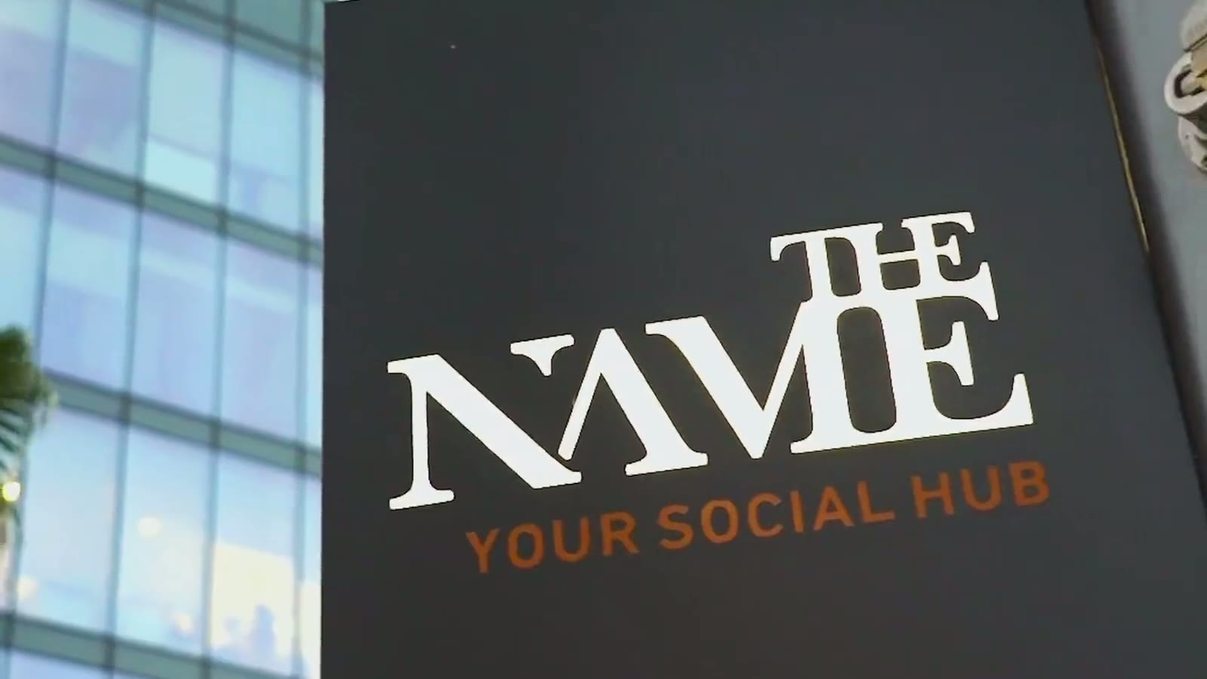
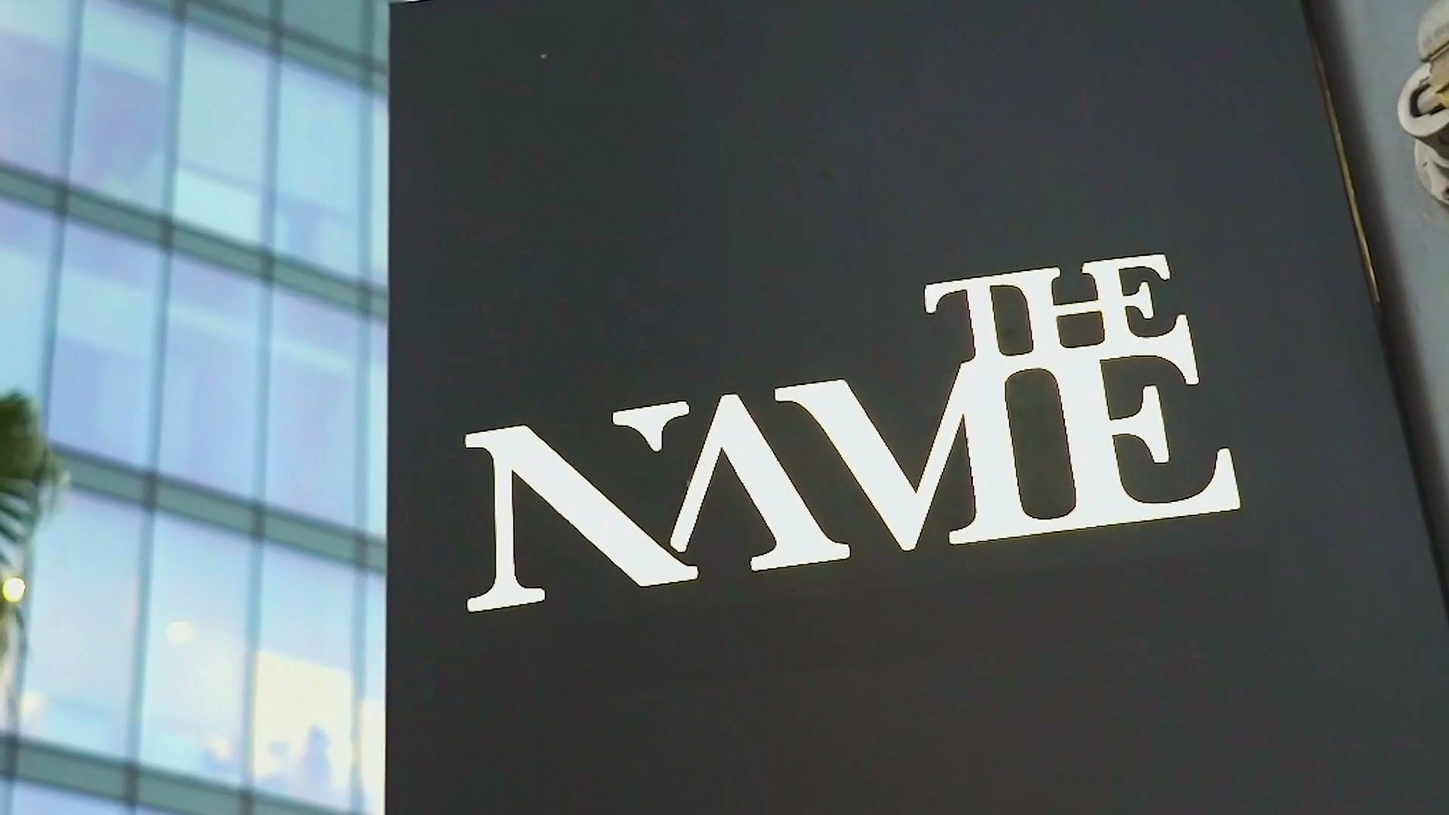
hero background image with text white color

Changed region(s): [[0.375, 0.6533, 0.875, 0.84]]

diff --git a/src/pages/Home/Home.css b/src/pages/Home/Home.css
@@ -49,15 +49,11 @@
   .home-hero .home-hero-video-phone { display: block; }
 }
 
-/* The type block runs to the hero's bottom edge and carries the white wash
-   itself, IN FRONT of the picture (z-index; the media is layer 0). The wash
-   fades in over --hero-ramp just above the title and is near-solid behind
-   the text, so the words sit on top of the picture and nothing in it shows
-   through them (the stand-in photo's own big white "THE NAME" lettering
-   crossed the title and read as if the text were behind the image). It ends
-   in the page background, so the picture fades into the page below with no
-   edge. Above the ramp the picture is untouched. Its own gradient, not the
-   shared .wash-to-bg — that one stays thin for most of its height. */
+/* The type block runs to the hero's bottom edge, IN FRONT of the picture
+   (z-index; the media is layer 0). NO white wash: the picture stays as it
+   is, and the type turns white over a soft DARK shade that rises from the
+   hero's foot (--hero-ramp above the title, deepest behind the text) — the
+   way the words stay readable on any photo without washing it out. */
 .home-hero-content {
   --hero-ramp: clamp(30px, 18vh, 180px);
   position: absolute;
@@ -65,23 +61,31 @@
   left: 0;
   right: 0;
   bottom: 0;
-  /* The wash starts right above the title (the text is anchored to the
+  /* The shade starts right above the title (the text is anchored to the
      bottom, so this only sets where the gradient begins). */
   padding-top: var(--hero-ramp);
   padding-bottom: clamp(40px, 6vh, 80px);
   background: linear-gradient(to bottom,
       transparent 0,
-      color-mix(in srgb, var(--color-bg) 40%, transparent) calc(var(--hero-ramp) * 0.45),
-      color-mix(in srgb, var(--color-bg) 88%, transparent) calc(var(--hero-ramp) * 0.75),
-      var(--color-bg) var(--hero-ramp),
-      var(--color-bg) 100%);
+      color-mix(in srgb, var(--color-black) 30%, transparent) var(--hero-ramp),
+      color-mix(in srgb, var(--color-black) 60%, transparent) 100%);
+  color: var(--color-white);
+  text-shadow: 0 1px 12px color-mix(in srgb, var(--color-black) 35%, transparent);
   pointer-events: none;
 }
+/* ...but not on the gold name: its text is transparent (the gradient is
+   clipped to it, .gold-leaf), so a shadow would show through and dull it. */
+.home-hero-content .gold-leaf { text-shadow: none; }
+
 
 
 /* Type is the shared .display-title (theme.css) — but at 4vw here, not its
    6vw (the About tagline keeps 6vw), and the width cap. */
-.home-hero-title {
+/* .home-hero qualifies it: theme.css's .display-title is equally specific
+   and lands later in the bundle, so a single class loses the tie. */
+.home-hero .home-hero-title {
+  /* white on the hero's dark shade (.display-title is charcoal elsewhere) */
+  color: var(--color-white);
   font-size: clamp(36px, 4vw, 88px);
   max-width: 14ch;
 }
@@ -168,7 +172,7 @@
    hero and the video stays visible above it. */
 @media (max-width: 700px),
 (max-height: 820px) {
-  .home-hero-title {
+  .home-hero .home-hero-title {
     font-size: clamp(32px, 4vw, 56px);
   }
 

diff --git a/src/data/media.js b/src/data/media.js
@@ -83,9 +83,15 @@ export const media = {
   // On phones (≤700px) the hero plays the Agency film instead (agencyFilm).
   heroPhone: agencyFilm,
   // The Home hero's PICTURE, which replaced the two films above (both kept,
-  // PARKED, for when a film comes back). The file is still to come — until
-  // it lands at public/media/photos/home/hero.jpg, ImagePlaceholder shows
-  // its dashed slot. Fills the hero at every width (object-fit: cover).
+  // PARKED, for when a film comes back). Fills the hero at every width
+  // (object-fit: cover). A STAND-IN until a real photo replaces
+  // public/media/photos/home/hero.jpg: the "THE NAME" storefront sign —
+  // its "YOUR SOCIAL HUB" line painted out (the plain sign panel 130px
+  // below cloned over it through a slanted, feathered ffmpeg mask) — a
+  // 1920x1080 frame (0:35.97, the sharpest of the shot by
+  // ffmpeg blurdetect, + a light unsharp) from the ORIGINAL showreel, "R
+  // Investment Video Loop (2m04 seamless).mp4" (5.5 Mbps) — not from
+  // videos/hero.mp4, our 1600x900 1.1 Mbps cut, which is far softer.
   heroImage: `${BASE}/photos/home/hero.jpg`,
   // The full-width picture behind Home's virtual-store band (under the
   // Brands row). A STAND-IN until a real wide shot of the store (~1920×800)

diff --git a/STRUCTURE.md b/STRUCTURE.md
@@ -1429,7 +1429,9 @@ Two folders, split by whether the site SERVES the file:
 public/media/
   README.md       — what each folder is for (served, harmless)
   STAND-INS (until the real photography comes; each marked in data/media.js):
-                    photos/home/hero.jpg, photos/fnb/* and
+                    photos/home/hero.jpg is a 1920x1080 frame of the ORIGINAL
+                    showreel (sharper than our cut), the sign's "YOUR SOCIAL
+                    HUB" line cloned out with the plain panel below it; photos/fnb/* and
                     photos/agency/ooh-commercity.jpg are 1600x900 stills
                     from videos/hero.mp4 (fnb/concept-store.jpg has its
                     burned-in caption painted out with ffmpeg delogo — a
@@ -1575,7 +1577,7 @@ placeholder instead, so partially-supplied media degrades cleanly.
 
 | Route | Folder | Notes |
 |---|---|---|
-| `/` | `pages/Home/` | The five-pillar brief ("More than just a name."). **Hero** — ONE picture, full-bleed at every width: `media.heroImage` (public/media/photos/home/hero.jpg, STILL TO COME — ImagePlaceholder shows its dashed slot until it lands; `.home-hero-image` in Home.css, eager-loaded). The two films it replaced are PARKED (commented out in Home.jsx, their `.home-hero-video*` rules kept in Home.css): the looping showreel `media.hero` and on phones (≤700px) `media.heroPhone`, the portrait Brand Communication film (`agencyFilm` in media.js); the type block `.home-hero-content` runs to the hero's bottom edge, IN FRONT of the picture (z-index 1 over `.home-hero-media`'s 0), and carries its OWN white wash (Home.css; no longer the shared `.wash-to-bg`): it fades in over `--hero-ramp` (= its padding-top, clamp(30px, 18vh, 180px)) just above the title and is SOLID `--color-bg` from the title down, so nothing in the picture shows through the words (the stand-in photo's big white "THE NAME" lettering used to cross the title) and the picture fades into the page below (no separate scrim element), with LIVE TYPE now: `<h1>` (uppercase via CSS) carrying `home.hero.title` in a `.sr-only` span for screen readers/crawlers, and DRAWING an `aria-hidden` version: `home.hero.titleLead` then `RotatingName` (Home.jsx) — its own line, where each of `home.hero.names` (English names in en, Arabic in ar; first entry "a name." / "اسم." is the server render and the reduced-motion still) drops in from above every `NAME_HOLD_MS` (names[0] holds for `SLOGAN_HOLD_MS`) while the old one falls out (`home-name-drop` / `home-name-leave` in Home.css), the paragraph `home.hero.body`, and ONE yellow `.btn-primary`, "Explore what we do" (`home.hero.cta`, no arrow), a router Link to `whatWeDoLink` (/#what-we-do, the section below). (The "Virtual Store" button moved to its own band, below.) The title type is the shared `.display-title` class in theme.css (also used by the About tagline card); `.home-hero-title` caps its width. `.display-title` is charcoal (`--color-ink`) and its name is the shared `.gold-leaf` class (theme.css: text filled with `--gradient-panel` via background-clip: text) — each `.home-hero-name-word` carries it. `.sr-only` (visually hidden, still read) is a shared utility in theme.css, added for this title — reuse it rather than writing another. The old tagline artwork component was deleted. **What we do** — intro (`home.whatWeDo`), then one row per entry in `pillars` (`data.js`: corporateGifts, brands, agency, events, fnb). Copy is `home.pillars[id]` — `title`, `lead` (first paragraph, regular weight), optional `body` (empty string = not rendered), `tags` (rendered as small uppercase outline chips — wrapping on desktop/tablet, one swipeable line on the phone stage), `ctas[key]` labelling each of the row's `links`. Rows follow `pillars`' order (no order fields in data; `num` is unused now). Every row has ONE button (Explore → its page; the Brands row's Shop button was removed). F&B → `/fnb-and-concept-store` (its own page; the old /cafe page stays PARKED). The rows are `ServiceRows` from `components/ServicePage` (`titleAs="h3"`) — the SAME structure as every "What we do" page: desktop/tablet the zig-zag `PillarRows` (number, chips, buttons, each film in a MediaGallery filling the column, no ring — like the Events page), phones the card stage `ServiceList`. Home maps `pillars` to its `services`: title/lead/body, `tags` (chips), `actions` (the CTA links, `actionsOf(p)`); media via `servicePhotos`: the row's film from `media.serviceVideos[id]` or else its photo `media.services[id]` (dashed placeholder until it exists). Films: `corporateGifts` the Vertex reel, `agency` the Outdoor Media film (16:9, cropped to the frame), `events` the Events iPad reel — all cut to 4:5. **Virtual store band** (`.home-virtual-store`, Home.css; copy `home.virtualStore` { heading, body, cta, shopCta }) — UNDER THE BRANDS ROW: Home renders its rows as TWO `ServiceRows` (the first `BAND_AFTER` = 2 — Corporate Gifts, Brands — then the band, then the rest with `start={2}`, so they number 03-05 and the zig-zag carries on; on phones that is two card stages): a FULL-WIDTH section (no .container on it) whose background is the picture `media.virtualStore` (public/media/photos/home/virtual-store.jpg, STILL TO COME) set as the CSS variable --virtual-store-bg, cover, under a 55% black wash, over the footer's dark gradient (what shows until the file lands — a CSS background draws nothing for a missing file); centred white heading, a line, and TWO WHITE `.btn-light` buttons (`.home-virtual-store-actions`): "Virtual Store" to `virtualStoreUrl` (data/site.js: the Matterport 3D walkthrough, new tab) and "Shop the Brands" to `shopLink` (the Odoo store, same tab like every Shop link). **Final CTA** (`home.finalCta`) — centred, "Start a conversation →" links to the same `/our-story#contact`. Every "→" is the `Arrow` span in Home.jsx, mirrored under RTL. **PARKED on Home** (components, other CSS and i18n kept): LogoMarquee, Bubbles, `CustomizeSection` (`/customize` → `/#customize` now just lands at the top), the "how it works" method picker + ProcessSteps (its `home.howItWorks` copy and `customMethods` are still read by the chatbot, About, Shop and catalogue.js — do not delete), and `ContactSection`. The old how-it-works / service-point rules were removed from Home.css; see commit d6f9561. The old `home.services` / hero `ctaShop`/`ctaTour` keys were replaced. |
+| `/` | `pages/Home/` | The five-pillar brief ("More than just a name."). **Hero** — ONE picture, full-bleed at every width: `media.heroImage` (public/media/photos/home/hero.jpg, STILL TO COME — ImagePlaceholder shows its dashed slot until it lands; `.home-hero-image` in Home.css, eager-loaded). The two films it replaced are PARKED (commented out in Home.jsx, their `.home-hero-video*` rules kept in Home.css): the looping showreel `media.hero` and on phones (≤700px) `media.heroPhone`, the portrait Brand Communication film (`agencyFilm` in media.js); the type block `.home-hero-content` runs to the hero's bottom edge, IN FRONT of the picture (z-index 1 over `.home-hero-media`'s 0), with NO white wash: the picture shows as it is, and the type is WHITE (`.home-hero .home-hero-title` — qualified, since theme.css's charcoal `.display-title` would win a single-class tie; the gold name keeps its .gold-leaf, without the text-shadow the rest gets) over a soft DARK shade (Home.css) that rises over `--hero-ramp` (= its padding-top, clamp(30px, 18vh, 180px)) from transparent to 30% black and deepens to 60% at the hero's foot, with LIVE TYPE now: `<h1>` (uppercase via CSS) carrying `home.hero.title` in a `.sr-only` span for screen readers/crawlers, and DRAWING an `aria-hidden` version: `home.hero.titleLead` then `RotatingName` (Home.jsx) — its own line, where each of `home.hero.names` (English names in en, Arabic in ar; first entry "a name." / "اسم." is the server render and the reduced-motion still) drops in from above every `NAME_HOLD_MS` (names[0] holds for `SLOGAN_HOLD_MS`) while the old one falls out (`home-name-drop` / `home-name-leave` in Home.css), the paragraph `home.hero.body`, and ONE yellow `.btn-primary`, "Explore what we do" (`home.hero.cta`, no arrow), a router Link to `whatWeDoLink` (/#what-we-do, the section below). (The "Virtual Store" button moved to its own band, below.) The title type is the shared `.display-title` class in theme.css (also used by the About tagline card); `.home-hero-title` caps its width. `.display-title` is charcoal (`--color-ink`) and its name is the shared `.gold-leaf` class (theme.css: text filled with `--gradient-panel` via background-clip: text) — each `.home-hero-name-word` carries it. `.sr-only` (visually hidden, still read) is a shared utility in theme.css, added for this title — reuse it rather than writing another. The old tagline artwork component was deleted. **What we do** — intro (`home.whatWeDo`), then one row per entry in `pillars` (`data.js`: corporateGifts, brands, agency, events, fnb). Copy is `home.pillars[id]` — `title`, `lead` (first paragraph, regular weight), optional `body` (empty string = not rendered), `tags` (rendered as small uppercase outline chips — wrapping on desktop/tablet, one swipeable line on the phone stage), `ctas[key]` labelling each of the row's `links`. Rows follow `pillars`' order (no order fields in data; `num` is unused now). Every row has ONE button (Explore → its page; the Brands row's Shop button was removed). F&B → `/fnb-and-concept-store` (its own page; the old /cafe page stays PARKED). The rows are `ServiceRows` from `components/ServicePage` (`titleAs="h3"`) — the SAME structure as every "What we do" page: desktop/tablet the zig-zag `PillarRows` (number, chips, buttons, each film in a MediaGallery filling the column, no ring — like the Events page), phones the card stage `ServiceList`. Home maps `pillars` to its `services`: title/lead/body, `tags` (chips), `actions` (the CTA links, `actionsOf(p)`); media via `servicePhotos`: the row's film from `media.serviceVideos[id]` or else its photo `media.services[id]` (dashed placeholder until it exists). Films: `corporateGifts` the Vertex reel, `agency` the Outdoor Media film (16:9, cropped to the frame), `events` the Events iPad reel — all cut to 4:5. **Virtual store band** (`.home-virtual-store`, Home.css; copy `home.virtualStore` { heading, body, cta, shopCta }) — UNDER THE BRANDS ROW: Home renders its rows as TWO `ServiceRows` (the first `BAND_AFTER` = 2 — Corporate Gifts, Brands — then the band, then the rest with `start={2}`, so they number 03-05 and the zig-zag carries on; on phones that is two card stages): a FULL-WIDTH section (no .container on it) whose background is the picture `media.virtualStore` (public/media/photos/home/virtual-store.jpg, STILL TO COME) set as the CSS variable --virtual-store-bg, cover, under a 55% black wash, over the footer's dark gradient (what shows until the file lands — a CSS background draws nothing for a missing file); centred white heading, a line, and TWO WHITE `.btn-light` buttons (`.home-virtual-store-actions`): "Virtual Store" to `virtualStoreUrl` (data/site.js: the Matterport 3D walkthrough, new tab) and "Shop the Brands" to `shopLink` (the Odoo store, same tab like every Shop link). **Final CTA** (`home.finalCta`) — centred, "Start a conversation →" links to the same `/our-story#contact`. Every "→" is the `Arrow` span in Home.jsx, mirrored under RTL. **PARKED on Home** (components, other CSS and i18n kept): LogoMarquee, Bubbles, `CustomizeSection` (`/customize` → `/#customize` now just lands at the top), the "how it works" method picker + ProcessSteps (its `home.howItWorks` copy and `customMethods` are still read by the chatbot, About, Shop and catalogue.js — do not delete), and `ContactSection`. The old how-it-works / service-point rules were removed from Home.css; see commit d6f9561. The old `home.services` / hero `ctaShop`/`ctaTour` keys were replaced. |
 | `/cafe` | `pages/Cafe/` | **PARKED — no route, no nav entry** (see App.jsx above); the folder and its copy are kept so it can be switched back on. Title block, then the delivery-partner `LogoMarquee` — **commented out** for now (ids/URLs in this page's `data.js`, names under i18n cafe.partners) — then the menu (List/Cards toggle; cards are `OverlayCard` with tag + price chips and an icon-only WhatsApp action; autoplaying carousels, 3 sections). Food `Bubbles` (plus the N mark) at 3× scale fill the gutters on wide screens (no narrow-screen bands). Plus the **events** section at its foot — nights held in our own room, rendered by `PackagesPanel`. Was `pages/Menu/`. |
 | `/store` | `pages/Shop/` | **PARKED**: the import and route are commented out in App.jsx and `routes.shop` is out of `navLinks` (so it is not prerendered). Every Shop button and link (navbar, footer, Home hero and Brands row, the Events page, About, the chatbot, the parked Cafe) points at `shopLink` in data/site.js, the Odoo store (https://thenamemea.odoo.llc/shop), each a plain `<a href={shopLink}>` (in data lists, an `href` entry instead of a `to`: `chatTopics`, `aboutServices`), so a click goes STRAIGHT there. (They used to link to `/store` and pass through `ToOdooShop`, which showed a blank page for a moment before redirecting.) `/store` and `/shop` still render `ToOdooShop` (App.jsx), which `location.replace`s to the store, only so old bookmarks keep working. Restore the page by uncommenting it in App.jsx, setting `shopLink` back to `routes.shop` and putting `routes.shop` back in `navLinks`. What follows describes the parked page. Labelled "Store" in the nav (was `/shop`, which redirects here). "Make It Personal" — the real catalogue: **192 products from `data/storeProducts.js`**, generated from the Odoo export (see that file). Ten category filters from `storeCategories`, each showing the same products as the matching category page on store.thename.ae (counts verified equal: Bags & Travel 24, Desk & Stationery 19, Drinkware 35, Games 5, Home Accessories 61, Kids 60, Photo & Frames 8, Personalized Gift Sets 9, Technology 36). Rendered as WRAPPING PILLS (`.seg.shop-filters` in Shop.css) rather than the shared `.seg` capsule: ten options need ~1286px and the capsule had 1096px, so its `overflow: hidden` silently cut the last one off mid-word. The class exists so the List/Cards `ViewToggle` beside them, also a `.seg`, keeps the joined capsule. Note the selector is `.seg.shop-filters` — a single class loses to theme.css's `.seg`, which is equally specific and later in the bundle (All Products, Bags & Travel, Desk & Stationery, Drinkware, Games, Home Accessories, Kids, Photo & Frames, Personalized Gift Sets, Technology) — but the export carries no per-product category, so only "All Products" has anything in it and the rest show `shop.emptyCategory`. The catalogue is a SHOWCASE, not a listing, and it has TWO modes. A NAMED shelf renders its first `FEATURED_COUNT` products and nothing else, in `.product-grid-featured` — fixed columns across the full container. `FEATURED_COUNT` is not a number of its own: it IS `CARDS_IN_VIEW` (4, from ProductCard), so the row is full by construction and changing the layout can never leave a half-empty shelf behind. "ALL PRODUCTS" is the exception and is NOT cut to three: it is the whole catalogue on the shared `Carousel`, the same four cards in view and the rest a swipe away, because a sample of an unfiltered shelf is meaningless and a track of exactly three cards is just a row with dead arrows on it. Its cards carry `carousel-card`, whose flex-basis in theme.css is arithmetic off `--carousel-per-view` (n cards and n-1 gaps). That variable comes from the Carousel's `perView` prop and DEFAULTS TO 3, so asking for 4 here leaves the Kids track — and the parked Cafe one — exactly as they were. The narrow-screen steps override the width directly with `!important` rather than lowering the variable, and have to: it arrives as an inline style, which no stylesheet rule can outrank and reuse the `shop.prevPieces`/`nextPieces` labels that were already there from the page's earlier carousel. A SEARCH resets the filter to 'all', so results always land in the carousel and are never truncated to three. Both modes pass `product-card-showcase` and `SHOWCASE_RATIO` ('1 / 1') to ProductCard: the picture fills its frame edge to edge (`object-fit: cover`, no inset ground) rather than sitting as a stamp on a tint. The frame is SQUARE because the catalogue is mixed: 143 of the store's 187 photographs are 2:3 portrait and 44 are 3:2 landscape (the Message In The Bulb line, mostly). `cover` crops whatever does not fit, so a portrait 3:4 frame — which suits the majority beautifully — takes half the width off each of those 44. A square gives up a third of one axis either way, symmetric, and product photography carries enough white margin to afford it. The ratio must be passed as a PROP; ImagePlaceholder sets it as an inline style and a CSS rule for it loses silently (caught in the browser, not the build). Under either layout sits a `.btn-primary` that opens THAT CATEGORY on store.thename.ae via `categoryUrl(filter)` (pick Drinkware and you land on the store's Drinkware page, not its shop front) — the cards themselves still open one product each, unchanged. For a named shelf the rest of the products are not rendered at all; the button is where they went. Copy is `shop.shopCategory(label)`, which takes the category's own filter label — except on "All Products", which borrows the hero's `shop.openShop` rather than reading "Shop all All Products". The old PAGER is **PARKED** and commented out in Shop.jsx: `PAGE_SIZE` (24), the `visible` state, the `useEffect` that reset it on a filter/search change, and the "Load more" block, each marked PARKED, along with the now-unused `useEffect` import. Its copy (`shop.loadMore`, `shop.showing`) and CSS (`.shop-more-count`) are kept; `.shop-more` is reused as the wrapper for the new category button. Restoring the pager means uncommenting all four and putting `visible` back into the `page` slice. Why it was a window rather than numbered PAGES, if it ever comes back: growing it keeps every card already on screen exactly where it is, while pages replace the grid and throw away the visitor's place. It was not an inner scroll container either — nested scrollbars fight the page scroll, strand the footer and are poor on touch and with a keyboard. And not infinite scroll, which never lets you reach the footer. Note the result count beside the filters still reports the FULL size of the shelf, not the three on screen — that is deliberate, it is what makes the button under the grid worth pressing. Product images are `loading="lazy"` (now the DEFAULT on ImagePlaceholder site-wide; heroes pass loading="eager", since lazy-loading a HERO image would delay the largest paint). A SEARCH field sits under the filters and overrides them: typing resets the category to 'all', because a search is meant to find a product wherever it lives rather than quietly searching inside one shelf and appearing to find nothing. It is NOT debounced — 192 objects in memory filter in well under a millisecond, so a timer would only add lag; what can be slow is re-rendering up to 192 cards per keystroke, and `useDeferredValue` handles that by keeping the input responsive and rendering the list at a lower priority. Query terms are ANDed against the name, so "lexon bag" finds "LEXON - Travel bag NEW AIRLINE". The field and its results are spaced as ONE group: the gap below the field is the same `--space-2` that sits under the field's own label, against the `--space-4` above it that breaks from the controls. It is set on the RESULTS, not as a margin under the field, because the two layouts arrive with different defaults — the grid inherits `.product-grid`'s `--space-6` (overridden in Shop.css, not changed in ProductCard.css, since that grid is shared) and the Carousel's track carries 4px of top padding that is shadow room rather than spacing, subtracted so the card's top edge lands level with the grid's. Measured 8.8px from field to first card in both. List/Cards toggle kept; Cards is a **grid** of `.shop-product` cards copied from the product tile on store.thename.ae so the two read as one shop — the LAYOUT is the store's — product on a tinted ground, centred name, a button across the foot (NO price on the card; it is on the product's own page and in the List view) — but the COLOURS are this site's: `--color-accent-100` under the picture, `--color-accent-700` on the price, and .btn-primary's brand yellow on the button. Equal card heights come from a flex chain that must stay intact: `align-self: stretch` fills the card to its row, `.product-card-body` takes the slack with `flex: 1`, and the button's `margin-top: auto` pins it to the floor — break any link and buttons sit at different heights. That first link used to be `height: 100%`, which is equivalent IN A GRID and so looked right for as long as the grid was the only layout — but in the Carousel `.carousel-track` has auto height, so a percentage height resolves against an indefinite size, falls back to `auto`, and by being set at all SUPPRESSES the stretch it was trying to express. Measured before the fix: 461px for a one-line card beside 486px for a two-line one, in the same row. Do not put it back. The card links to the PRODUCT's own page (`productUrl`), not the shop front. The depth cue is REVERSED from the usual: a card carries its shadow at REST (offset down and to the left) and loses it on hover, so it settles onto the page rather than lifting off it. The LIST view does the opposite — white bordered rows that lift on hover — because a row has no resting shadow to give up. Long names are clamped (two lines on a card, one in a list row) and carry the full string on `title`, the same tooltip pattern the footer's social icons use. Neither view shows a price; it is on the product's own page. A card may carry a BADGE — a ribbon strip OVER the card's top-left corner, from `data/storeBadges.js`. It is an absolute overlay, so it costs the card no height and a badged card keeps the same proportions as a plain one (names stay on one line across a row). It starts 10px OUTSIDE the card's left edge with a darker fold tucked under the overhang, which is what reads as a ribbon passing round the back of the card rather than a sticker on the front. **`.shop-product` therefore sets NO `overflow: hidden`** — clipping would cut exactly the part doing the work — so `.shop-product-media` rounds its own TOP corners instead of relying on the card to clip it. Do not re-add overflow to the card without moving the ribbon inside its bounds. A sparkle sits on the strip's trailing edge, driven by theme.css's shared `sparkle-twinkle` keyframes rather than a redeclared copy; off under prefers-reduced-motion. The fold mirrors under RTL. Two earlier versions are worth not repeating: a 45deg corner ribbon (its length was the chord across the corner, so it silently clipped longer labels) and a full-width band in flow (it pushed the badged card's name below its neighbours'). CORNER RADII are no longer this page's rule — it became the whole site's and now lives with the `--radius-md` token in theme.css; Shop.css points at it rather than restating it. What that means here: the thumbnail inside a list row is `calc(var(--radius-md) - var(--space-3))`, i.e. 2.8px, because it is nested. The page's two gift-set overrides were DELETED: OverlayCard already carries the one radius, and its inset panel now steps down concentrically in OverlayCard.css, where it is true for every page using the component instead of being restated here. Deliberately NOT copied: the wishlist heart and the compare arrows on that tile, which both need a cart this site does not have. The whole card is ONE `<a>` and the button is a `<span>` dressed as one — a button or a second anchor inside a link is invalid, and three links to the same product is noise for a screen reader. The small-tile card uses `object-fit: contain`; the showcase variant both pages now render uses `cover` so the picture fills its frame (see `.product-card-showcase`). Product names are clamped to two lines AND reserved at two: the clamp alone gives equal card heights but leaves the button 25px higher under a one-line name, so `.product-card-name` carries `min-height: calc(1.35em * 2)` — in `em`, so each variant reserves two of its own lines (showcase on `--text-lg`, tiles on `--text-body`). Keep that multiplier and `line-height` in step. 14 of the 192 names actually truncate; all carry the full string on `title`. The gift-sets section ("Boxed, wrapped and ready to give") is **PARKED** — commented out in Shop.jsx along with the four imports/helpers only it used (`OverlayCard`, `giftSets`, `media`, `methodNames`), each marked PARKED. Its copy (`shop.giftSets.*`), its CSS (`.shop-gift-sets*`) and the curated TN-5xx pieces are all kept. **When parking JSX here, no `*/` may appear anywhere inside the wrapper** — including in your own explanatory prose: an end-of-comment marker closes the block early, the section silently goes live again, and the build still PASSES because the stray `*/}` is just JSX text. It fails at runtime instead (`giftSets is not defined`, blank page). Convert any inner comment's markers to plain dashes, as the About page does. Was `pages/VertexPieces/` (an interiors showroom) before the customization pivot. |
 | `/corporate-gifts` | `pages/Business/` | **NOW the shared "What we do" layout (`components/ServicePage`, see the Agency row for how it works):** hero `giftsPage` (kicker "Corporate Gifts", "Gifts that *connect.*"), one section per id in `giftServices` (`data.js`: curated, concepts, merchandise, customisation, packaging, production) titled by `home.pillars.corporateGifts.tags` in that order, copy `giftsPage.services[id]`; media ONE picture per service (`servicePhotos(services, media.servicePhotos.corporateGifts)`, 4:5, changing with the service in view; not supplied yet — dashed placeholders). It replaced the Corporate Gifts film (`media.serviceVideos.corporateGifts`, the Vertex reel — still Home's row film; `giftsPage.filmLabel` now unused). **ar** copy drafted, not native-reviewed. Everything below describes the PARKED page — kept as `ParkedBusiness()` in Business.jsx, not rendered, with its copy (`business.*`), CSS and `brandingOffers`: Labelled "Corporate gifts" in the nav (was `/business`, which redirects here). B2B: branded-goods offer cards ("Made for Business"), account terms ("How We Work With You"), and the **catering** section ("Catering, Wherever Business Takes You."), rendered by `PackagesPanel` as the image + direct-line enquiry only — **no packages table**: `business.catering` has no `title`, `intro`, `colOne` or `packages` left (deleted from every translation) and `cateringPackageIds` is gone from this page's `data.js`. Earlier, the off-site event-catering row had been removed from that list. The page's English copy was rewritten wholesale in a later pass; **ar still carries the previous wording** for everything under `business` except `catering.title`. |
